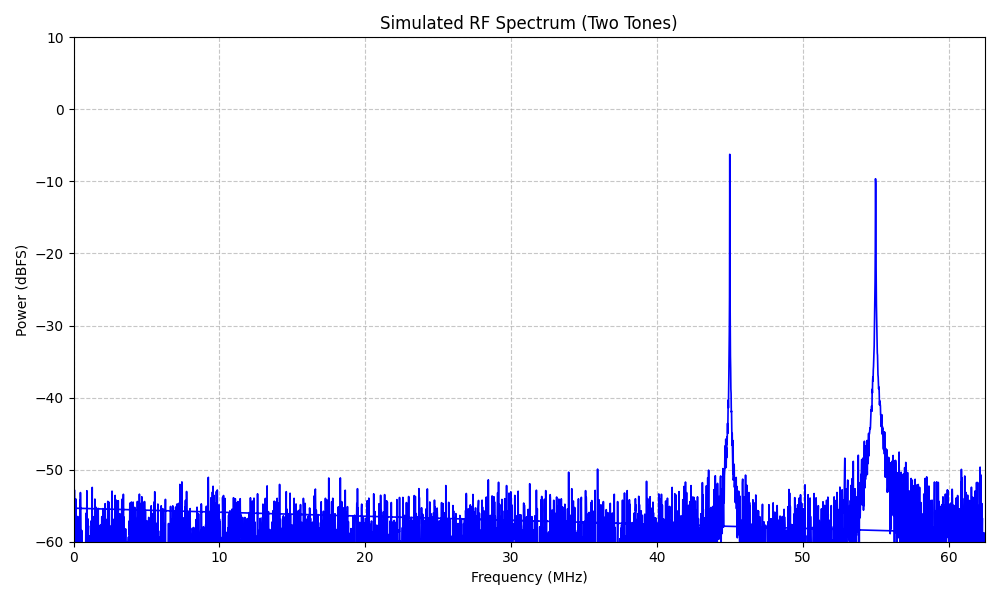
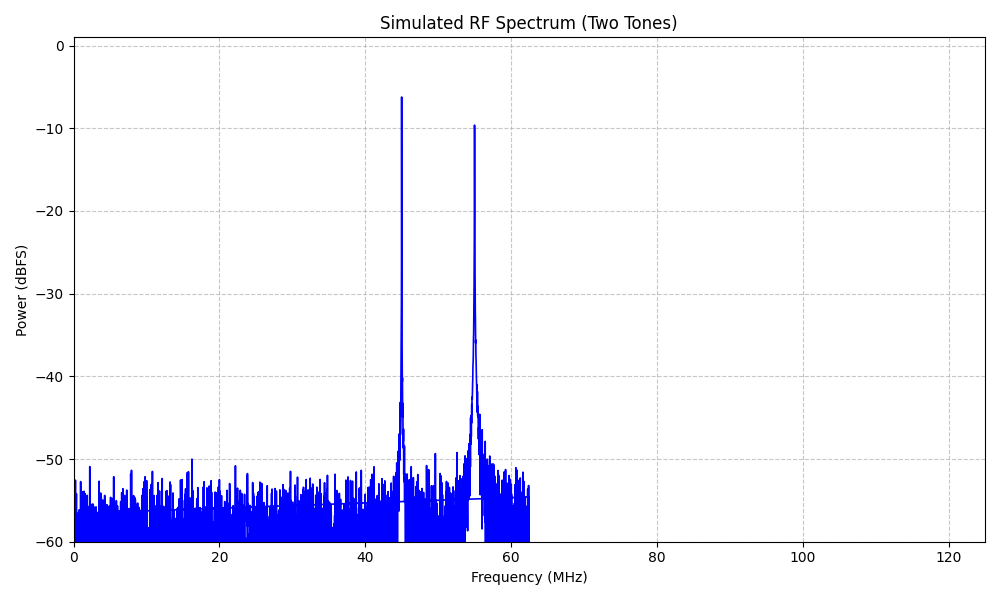
new plot 3

diff --git a/rf-spectrum-gen/fft-two-tone-125bandwidth.py b/rf-spectrum-gen/fft-two-tone-125bandwidth.py
@@ -41,8 +41,8 @@ plt.plot(freqs_positive, magnitude_positive, color='blue', linewidth=1.2)
 plt.title('Simulated RF Spectrum (Two Tones)')
 plt.xlabel('Frequency (MHz)')
 plt.ylabel('Power (dBFS)')
-plt.xlim(0, fs / 2e6) # Limit x-axis to Nyquist
-plt.ylim(-60, 10)     # Set appropriate dB scale
+plt.xlim(0, fs / 1e6) # Limit x-axis to Nyquist
+plt.ylim(-60, 1)     # Set appropriate dB scale
 plt.grid(True, which='both', linestyle='--', alpha=0.7)
 plt.tight_layout()
 